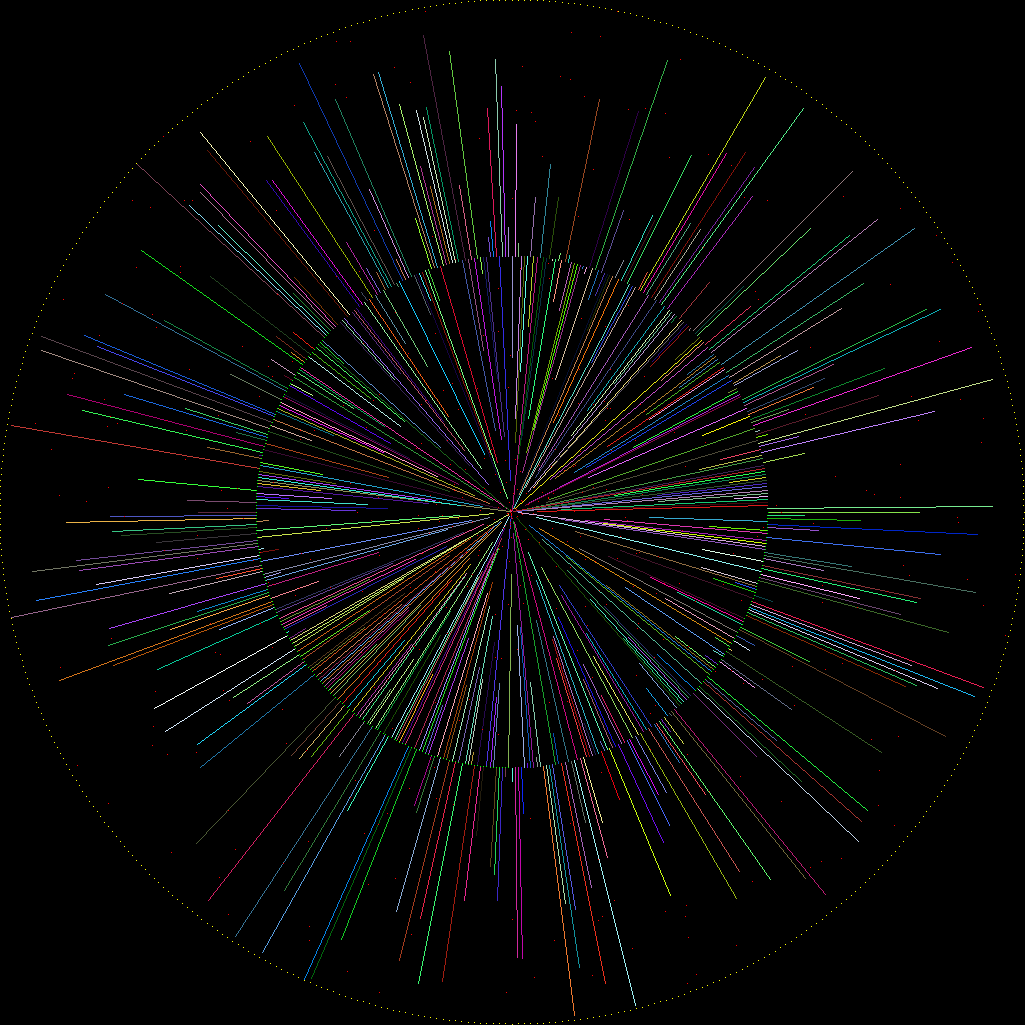
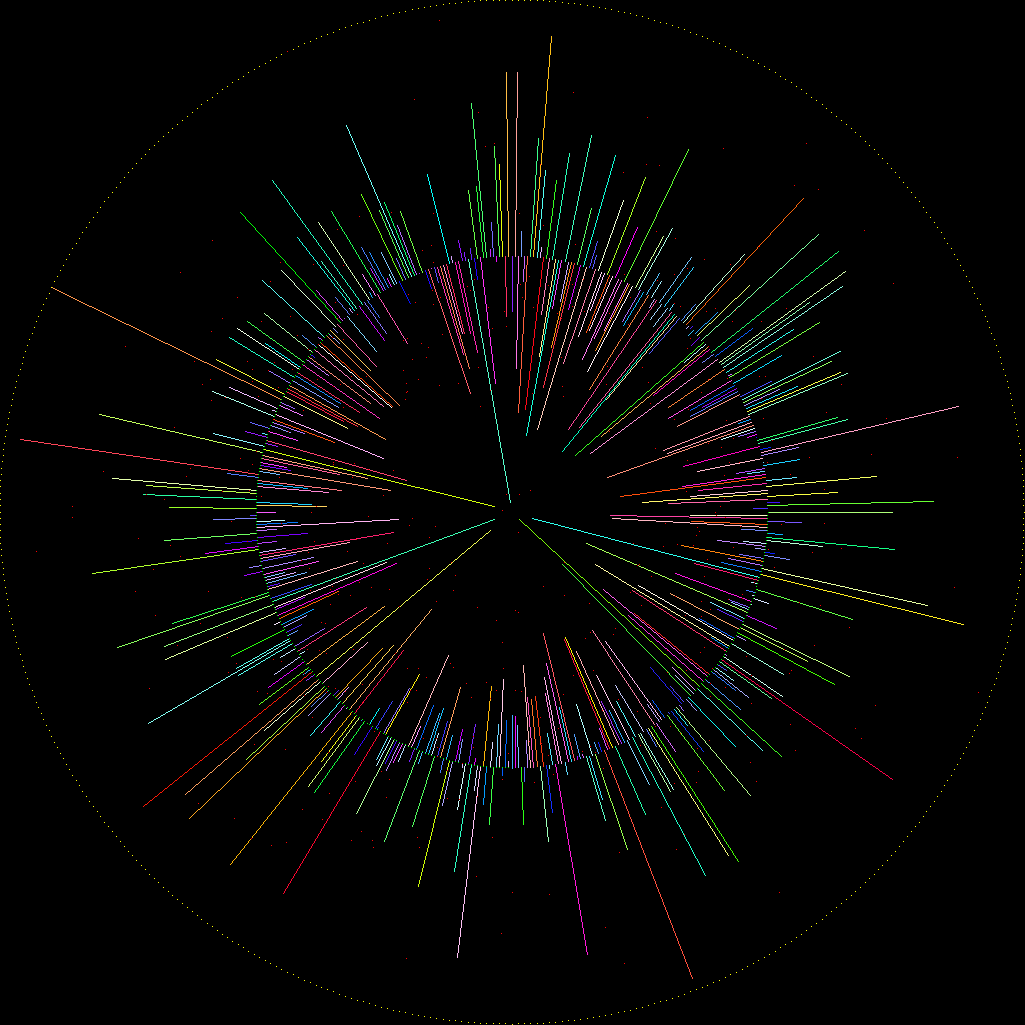
Fix Bug

diff --git a/tensorvis.py b/tensorvis.py
@@ -2,6 +2,7 @@ import math
 import cv2
 import numpy as np
 import random
+
 def vis1D(tensor, drawSize = 1024, drawline=False, colorful=False):
     # prepare 1024 x 1024 image
     img = np.zeros((drawSize + 1, drawSize + 1, 3), np.uint8)
@@ -12,30 +13,40 @@ def vis1D(tensor, drawSize = 1024, drawline=False, colorful=False):
     tensor = tensor / max
 
     # draw circle
-    i = 0
+    th = 0
     index = 0
-    while i < math.pi * 2:
-        x_0 = int(math.cos(i) * (drawSize / 4) + (drawSize / 2))
-        y_0 = int(math.sin(i) * (drawSize / 4) + (drawSize / 2))
+    while th < math.pi * 2:
+        cosVal, sinVal = math.cos(th), math.sin(th)
+        x_0 = int(cosVal * (drawSize / 4) + (drawSize / 2))
+        y_0 = int(sinVal * (drawSize / 4) + (drawSize / 2))
         img[x_0, y_0] = (0, 255, 0)
-        x_1 = int(math.cos(i) * (drawSize / 2) + (drawSize / 2))
-        y_1 = int(math.sin(i) * (drawSize / 2) + (drawSize / 2))
+        x_1 = int(cosVal * (drawSize / 2) + (drawSize / 2))
+        y_1 = int(sinVal * (drawSize / 2) + (drawSize / 2))
         img[x_1, y_1] = (0, 255, 255)
-        x_t = int(math.cos(i) * (drawSize / 2) * tensor[index] + (drawSize / 2))
-        y_t = int(math.sin(i) * (drawSize / 2) * tensor[index] + (drawSize / 2))
+        x_t = int(cosVal * (drawSize / 4) * tensor[index]) + x_0
+        y_t = int(sinVal * (drawSize / 4) * tensor[index]) + y_0
         img[x_t, y_t] = (0, 0, 255)
         if drawline:
             if colorful:
-                cv2.line(img, (x_0, y_0), (x_t, y_t), torch.randint(0, 255, (3,)).tolist(), 1)
+                #cv2.line(img, (x_0, y_0), (x_t, y_t), torch.randint(0, 255, (3,)).tolist(), 1)
+                cv2.line(img, (x_0, y_0), (x_t, y_t), calcLineColor(tensor[index]), 1)
             else:
                 cv2.line(img, (x_0, y_0), (x_t, y_t), (0, 0, 255), 1)
-        i += (math.pi * 2) / example.shape[0]
+        th += (math.pi * 2) / example.shape[0]
         index += 1
     return img
 
+def calcLineColor(value):
+    # Generate color based on value, like the light colorbar
+    hueA = value * 270
+    hsv_color = np.array([[[hueA, hueA + 135, 1]]], dtype=np.float32)
+    rgb_color = cv2.cvtColor(hsv_color, cv2.COLOR_HSV2RGB)
+    rgb_color = rgb_color[0][0] * 255
+    return rgb_color.astype(np.uint8).tolist()
+
 if __name__ == '__main__':
     import torch
-    example = torch.rand(512)
+    example = torch.randn(512)
     visimg = vis1D(example, drawline=True, colorful=True)
     cv2.imshow('vis', visimg)
     cv2.waitKey(0)
